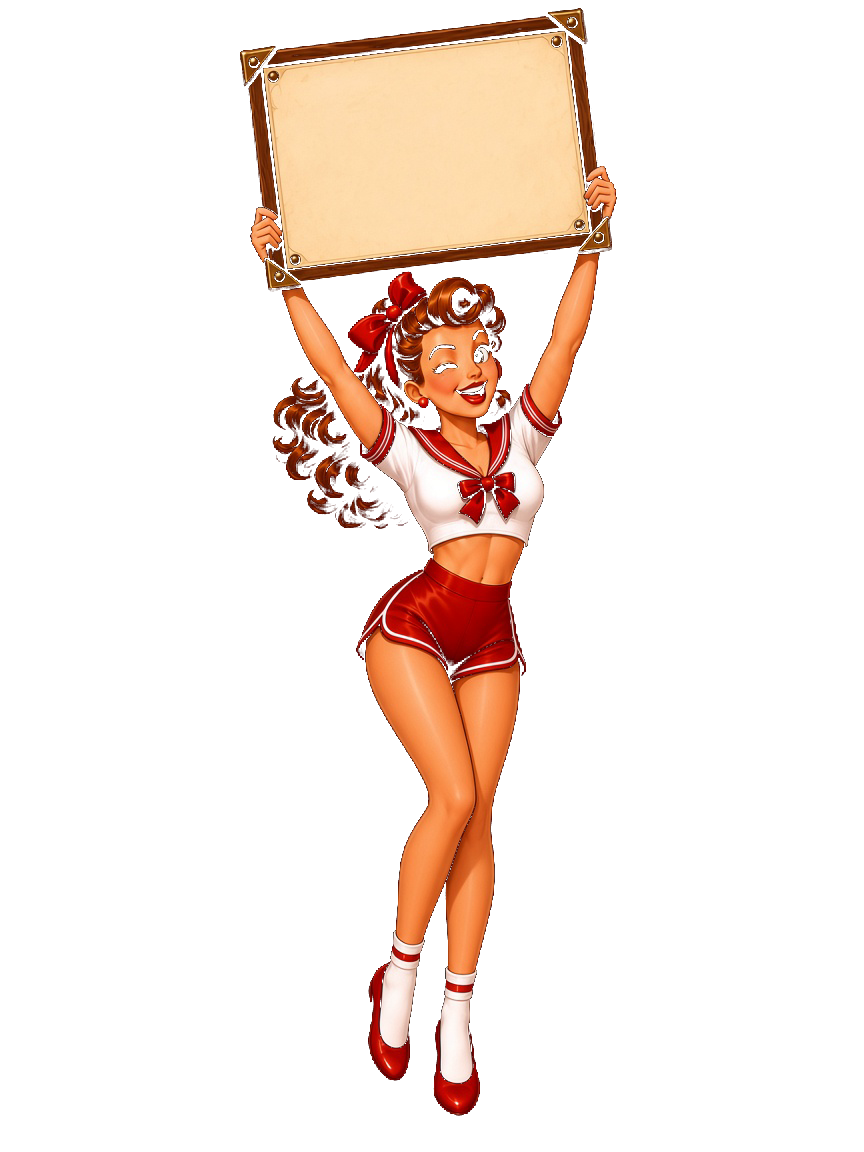
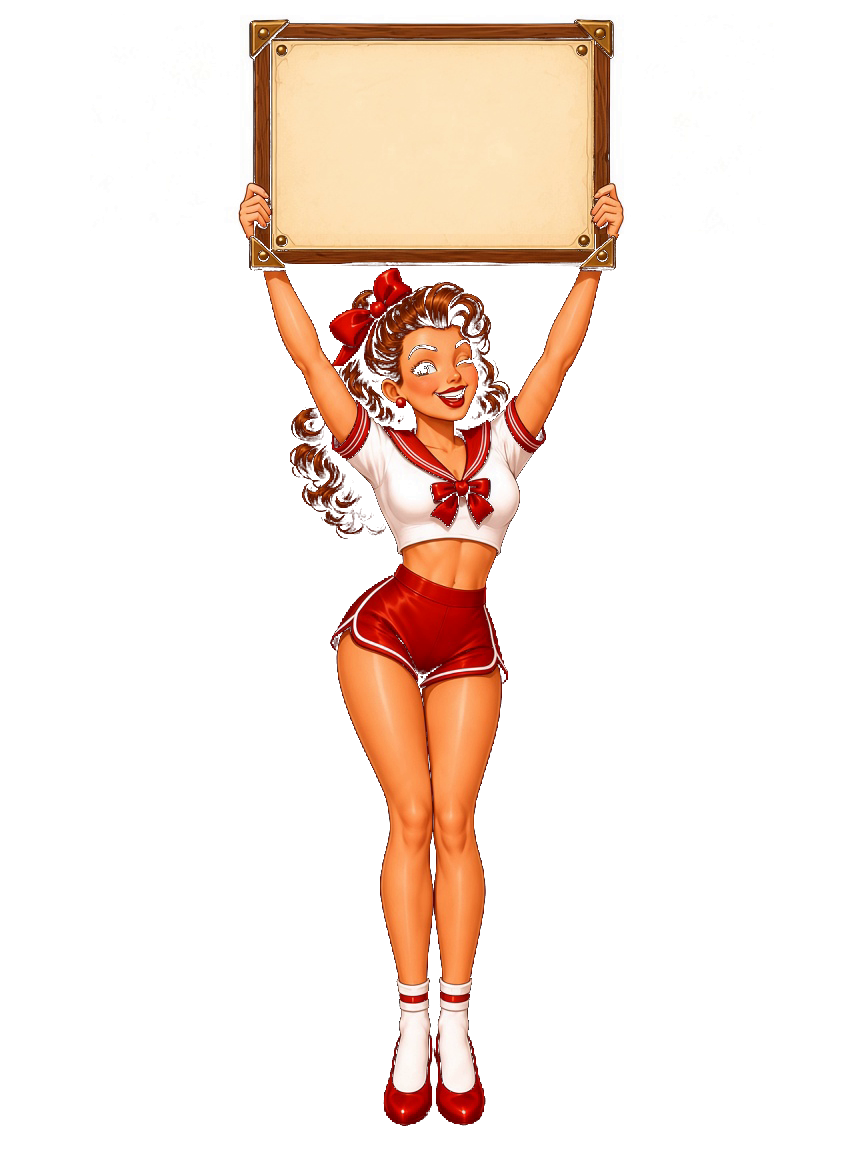
Samsung Fight click + locked pinup placard
On Samsung the tick was HTMLAudio delayed until the pinup painted; prefer
a decoded WebAudio buffer, reuse one warm element, and yield before the
scrap sim. Pinup frames 2-4 keep frame 1's sign and arms so the round
text stays put.

Changed region(s): [[0.2812, 0.0, 0.7188, 1.0]]

diff --git a/src/audio/engine.ts b/src/audio/engine.ts
@@ -131,7 +131,25 @@ export class AudioEngine {
     if (!this.ctx) this.ctx = new AudioContext();
     if (this.ctx.state === 'suspended') void this.ctx.resume();
     this.loadSfx();
+    // Decode the tick first so Fight never waits on HTMLAudio on Samsung.
+    void this.ensureClickBuffer();
     if (!this.playing) this.startMusic();
+  }
+
+  private ensureClickBuffer(): Promise<void> {
+    if (this.sfxBuffers.has('click') || !this.ctx) return Promise.resolve();
+    const pending = this.sfxRaw.get('click');
+    if (!pending) return Promise.resolve();
+    if (this.sfxLoading.has('click')) return Promise.resolve();
+    this.sfxLoading.add('click');
+    const ctx = this.ctx;
+    return pending
+      .then((raw) => ctx.decodeAudioData(raw.slice(0)))
+      .then((buf) => {
+        this.sfxBuffers.set('click', buf);
+      })
+      .catch(() => {})
+      .finally(() => this.sfxLoading.delete('click'));
   }
 
   /** Wake the effect bus and decode the files. Does not start the music. */
@@ -639,35 +657,52 @@ export class AudioEngine {
     }
   }
 
-  /** UI ticks must fire in the same gesture, even if the WebAudio bus is still waking. */
+  /** UI ticks: reuse one warm element. Cloning is late on Samsung Chrome. */
   private playHtmlClick(): void {
     const src = SFX_SRC.click;
     if (!src) return;
-    const el = this.clickWarm
-      ? (this.clickWarm.cloneNode(true) as HTMLAudioElement)
-      : new Audio(src);
+    if (!this.clickWarm) {
+      this.clickWarm = new Audio(src);
+      this.clickWarm.preload = 'auto';
+    }
+    const el = this.clickWarm;
     el.volume = Math.max(0, Math.min(1, this.ui));
-    void el.play().catch(() => {});
+    try {
+      el.pause();
+      el.currentTime = 0;
+    } catch {
+      /* ignore */
+    }
+    void el.play().catch(() => {
+      const one = new Audio(src);
+      one.volume = el.volume;
+      void one.play().catch(() => {});
+    });
   }
 
   private playSample(name: SfxName, vol: number): boolean {
     const buf = this.sfxBuffers.get(name);
     if (!buf || !this.ctx) return false;
-    if (this.ctx.state === 'suspended') void this.ctx.resume();
+    // Even if suspended, schedule now — resume() below lets Samsung flush it.
     const src = this.ctx.createBufferSource();
     const g = this.ctx.createGain();
     src.buffer = buf;
     g.gain.value = vol;
     src.connect(g).connect(this.dest());
-    src.start(this.ctx.currentTime);
+    try {
+      src.start(0);
+    } catch {
+      return false;
+    }
+    if (this.ctx.state === 'suspended') void this.ctx.resume();
     return true;
   }
 
   play(name: SfxName, bus: 'sfx' | 'ui' = 'sfx'): void {
     if (name === 'click') {
-      // Prefer the already-decoded WebAudio buffer while the bus is live — it starts
-      // even if the main thread then blocks on Fight. HTML audio is the cold-start fallback.
-      if (this.ctx?.state === 'running' && this.playSample('click', this.ui)) return;
+      // WebAudio first: on Samsung, HTMLAudio started before a long Fight sim
+      // often only becomes audible after the pinup paints.
+      if (this.ctx && this.sfxBuffers.has('click') && this.playSample('click', this.ui)) return;
       this.playHtmlClick();
       return;
     }

diff --git a/src/ui/app.ts b/src/ui/app.ts
@@ -1268,10 +1268,10 @@ export class GameApp {
               <div class="vs-banner-wrap is-pinup">
                 <div class="pinup-mover">
                   <div class="pinup-stage">
-                    <img class="pinup-cel" src="./art/ui/vs-pinup-1.png?v=pinup12" alt="" />
-                    <img class="pinup-cel" src="./art/ui/vs-pinup-2.png?v=pinup12" alt="" />
-                    <img class="pinup-cel" src="./art/ui/vs-pinup-3.png?v=pinup12" alt="" />
-                    <img class="pinup-cel" src="./art/ui/vs-pinup-4.png?v=pinup12" alt="" />
+                    <img class="pinup-cel" src="./art/ui/vs-pinup-1.png?v=pinup13" alt="" />
+                    <img class="pinup-cel" src="./art/ui/vs-pinup-2.png?v=pinup13" alt="" />
+                    <img class="pinup-cel" src="./art/ui/vs-pinup-3.png?v=pinup13" alt="" />
+                    <img class="pinup-cel" src="./art/ui/vs-pinup-4.png?v=pinup13" alt="" />
                   </div>
                   <div class="round-sign">
                     <span class="round-sign-head"><span class="round-sign-kicker">${this.L('round')}</span><span class="round-sign-num">${run.round}</span></span>
@@ -3347,8 +3347,8 @@ export class GameApp {
     }
     if (act === 'fight' && this.run) {
       if (this.isHuntLineup()) return this.launchHuntFight();
-      // Click already fired on pointerdown. Yield so it can leave the speaker before we block.
-      await new Promise<void>((r) => setTimeout(r, 80));
+      // Samsung: give the WebAudio tick a real turn before fullscreen + the scrap sim.
+      await new Promise<void>((r) => setTimeout(r, 120));
       await this.maybeFullscreen();
       audio.unlock();
       await this.beginFight();
@@ -3444,6 +3444,8 @@ export class GameApp {
 
   private async beginFight(): Promise<void> {
     if (!this.run) return;
+    // Let the Fight tick leave the speaker on Samsung before the sync scrap sim runs.
+    await new Promise<void>((r) => setTimeout(r, 0));
     const enemy =
       circuitOpponent(this.run) ??
       (await this.services.matchmaking.findOpponent(this.run.round, this.run.runId, this.run.playerName));
